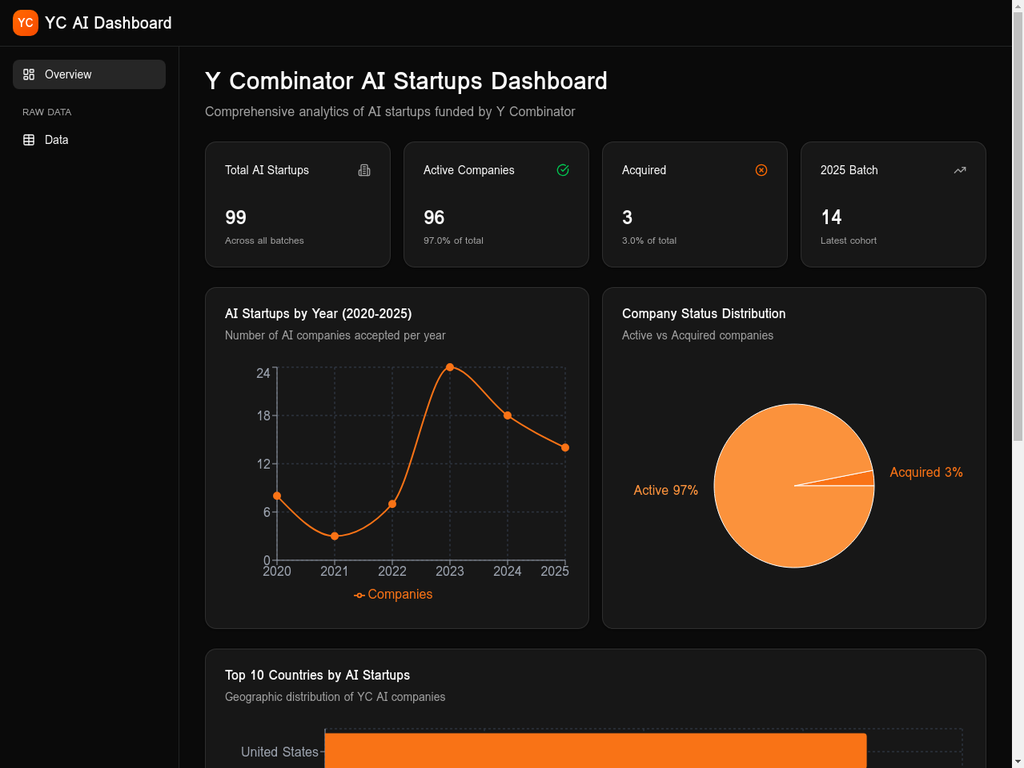
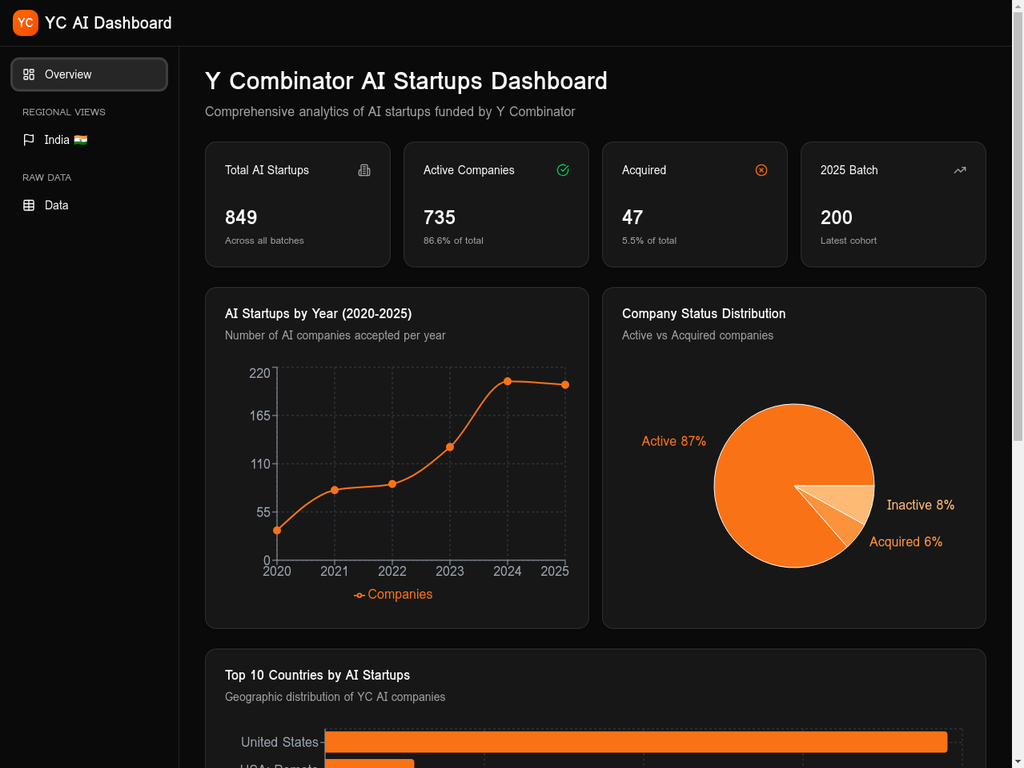
Update overview screenshot with real-time data
- Replace outdated screenshot (99 companies) with current data (849 companies)
- Update caption to reflect real-time metrics
- Shows 735 active (86.6%), 47 acquisitions, 200 in 2025 batch
- Displays growth trajectory from 2020-2025

diff --git a/README.md b/README.md
@@ -20,7 +20,7 @@ This dashboard transforms raw company data into actionable insights through inte
 
 ### Dashboard Overview
 ![Dashboard Overview](screenshots/dashboard-overview.webp)
-*Comprehensive analytics showing total startups, active companies, growth trends, and status distribution*
+*Real-time analytics showing 849 AI startups, 735 active companies (86.6%), 47 acquisitions, and 200 companies in 2025 batch*
 
 ### Key Insights & Geographic Distribution
 ![Key Insights](screenshots/dashboard-insights.webp)
